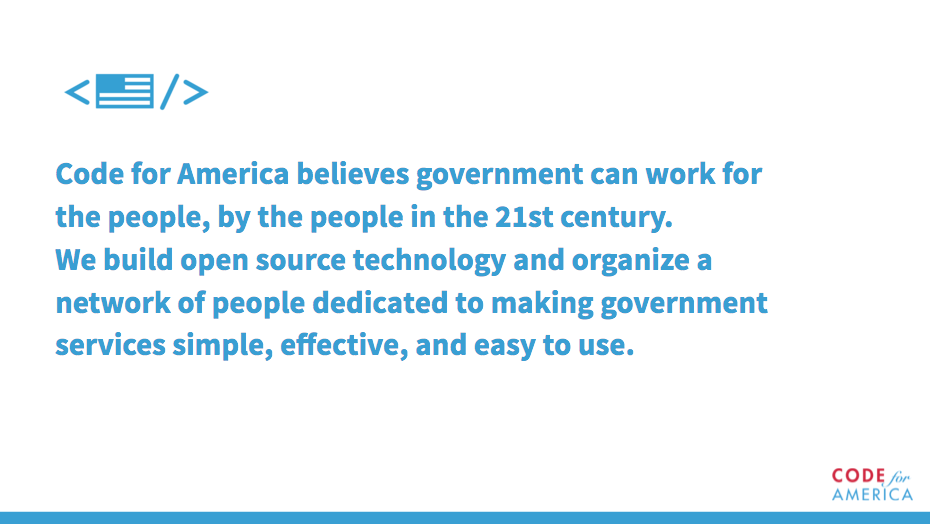
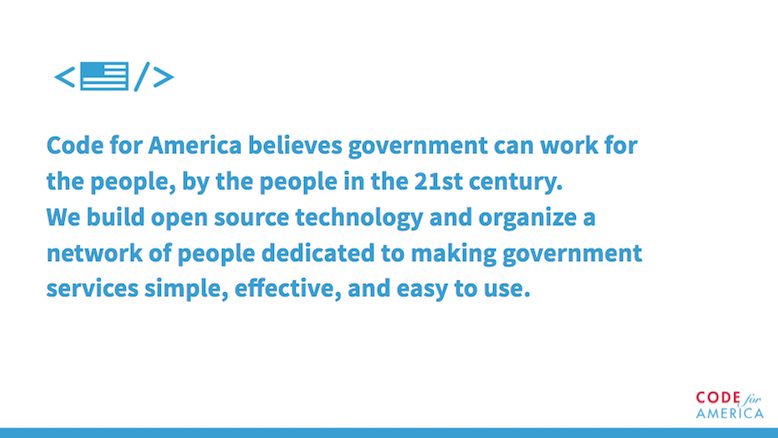
resize images

diff --git a/_posts/2016-03-10-codeacross-austin-2016-recap.md b/_posts/2016-03-10-codeacross-austin-2016-recap.md
@@ -4,14 +4,14 @@ title: CodeAcross Austin 2016 Recap
 date: 2016-03-10
 type: post
 published: true
-thumb: codeacross-actors-performers.jpg
+thumb: codeacross-actors-performers_250.jpg
 thumbalt: Participants add their sticky notes to canvas
 author:
   first_name: Victoria
   last_name: O'Dell
 ---
 
-This past Saturday, March 5, 2015, Open Austin had it’s 6th annual CodeAcross Austin event. This national day of action aligns with International Open Data Day. 
+This past Saturday, March 5, 2015, Open Austin had it’s 6th annual CodeAcross Austin event. This national day of action aligns with International Open Data Day.
 
 [CodeAcross](https://www.codeforamerica.org/events/codeacross-2016/) is the first major event of the year that Open Austin organizes as a volunteer brigade affiliated with Code for America. It is a part of a series of events in collaboration with the City of Austin and St. Edward’s leading up to ATX Hack For Change (June 3-5). The purpose of Code Across Austin this year was to identify and frame challenges in Austin that can be solved using technology, data, design and the diverse skills and knowledge of volunteers.
 
@@ -24,7 +24,8 @@ The morning kicked off at 10:00 am with introductory remarks from Mateo Clarke &
 _Quote from Kerry O’Connor’s presentation_
 
 ![Description of Code for America from slidedeck.](/assets/images/cfa-slide.png)
-[View Monique’s presentation](https://docs.google.com/presentation/d/1INnwL4NGuiIFqIl_N_eLJrxKmhxT_hdULH9uCFW7zTw/edit#slide=id.g11c404532b_4_63)
+
+_[View Monique’s presentation](https://docs.google.com/presentation/d/1INnwL4NGuiIFqIl_N_eLJrxKmhxT_hdULH9uCFW7zTw/edit#slide=id.g11c404532b_4_63)_
 
 The rest of day was broken into group activities arranged around 8 themes and their relation to the city of Austin.
 
@@ -35,7 +36,7 @@ The rest of day was broken into group activities arranged around 8 themes and th
 - Transportation
 - Broadband and Digital Opportunities
 - Sustainability
-- Planning and Land Use 
+- Planning and Land Use
 
 Participants with varying backgrounds brainstormed on challenges the city faces and worked on actionable steps that could be taken to tackle them. By the end of the morning, groups focused on each theme had drafted at least three “How might we..” challenge statements.
 
@@ -47,7 +48,7 @@ The second half of the day focused on turning the challenge statements into pote
 
 With contributions from around 60 participants of different backgrounds, ages, and professions, [11 different project ideas](https://github.com/open-austin/project-ideas/issues?q=is%3Aopen+is%3Aissue+label%3ACodeAcross2016) were presented.
 
-Code Across is over but the ideas sharing and collaboration that occurred will allow the Austin community and Open Austin to continue to do open source civic tech and design work for the people. 
+Code Across is over but the ideas sharing and collaboration that occurred will allow the Austin community and Open Austin to continue to do open source civic tech and design work for the people.
 
 ---
 
@@ -55,7 +56,7 @@ View [our deck](https://docs.google.com/presentation/d/1aWNB5wWr9ZIjwvMNEZR2uoGJ
 Check out our event [photo album](https://www.facebook.com/media/set/?set=a.962504890492340.1073741830.412390968837071&type=1&l=d32fcb860f).
 
 
-Missed out on this year’s CodeAcross? Come out to our next event. 
+Missed out on this year’s CodeAcross? Come out to our next event.
 [Civic Hack Saturday](http://www.meetup.com/Open-Austin/events/228334335/) is on March 19th.
 
 
